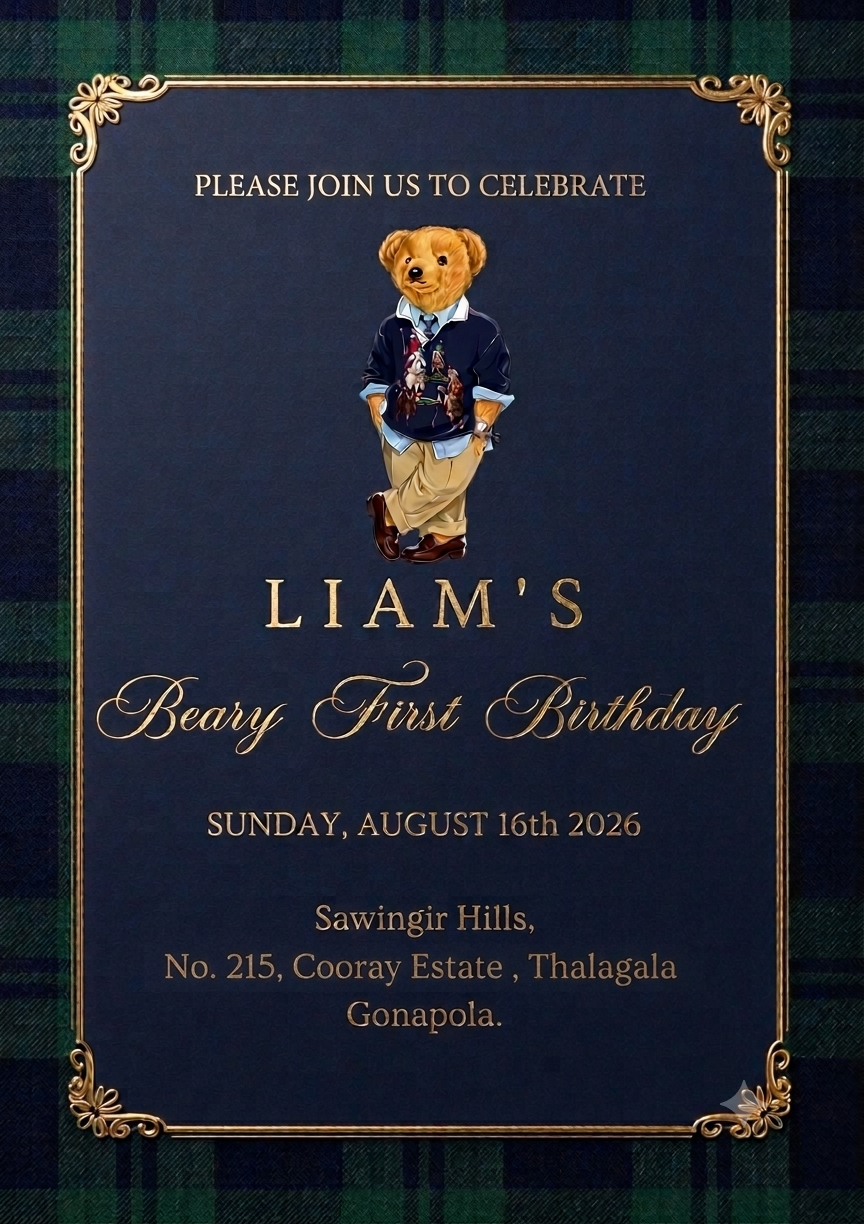
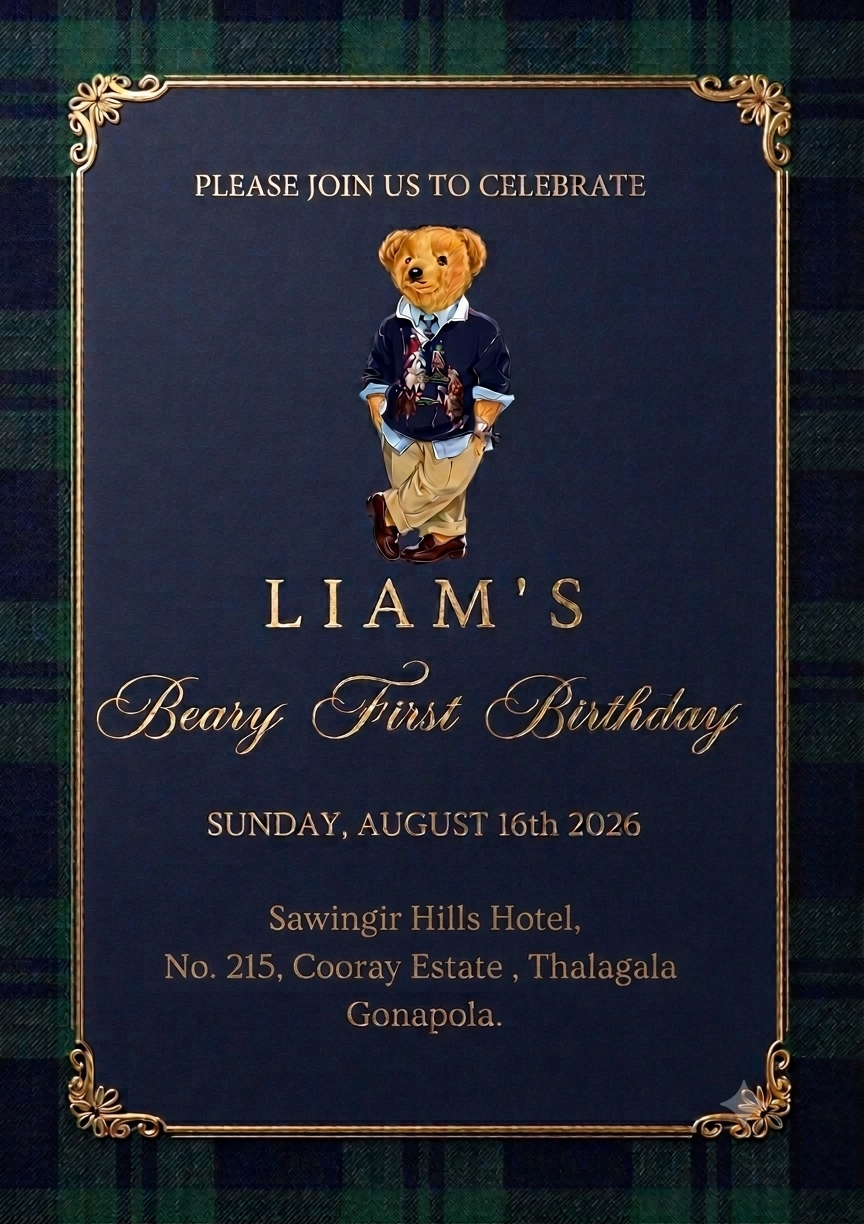
fix: update venue details and enhance milestone descriptions for clarity

Changed region(s): [[0.3125, 0.7141, 0.6562, 0.7761]]

diff --git a/app/page.tsx b/app/page.tsx
@@ -12,7 +12,7 @@ const baby = {
   date: "2026-08-16T11:00:00+05:30",
   displayDate: "Sunday, August 16th 2026",
   time: "7:00 PM onwards",
-  venue: "Sawingir  Hills",
+  venue: "Sawingir  Hills Hotel",
   address: "No.215, Cooray Estate, Thalagala , Gonapola",
   mapsQuery: "Sawingir Hills, No. 215, Cooray Waththa Thalagala, Gonapola"
 };
@@ -25,12 +25,12 @@ const timeline = [
   { time: "8:30 PM", title: "Celebration Time", detail: "Music, laughter, blessings, and birthday memories.", icon: Sparkles }
 ];
 const milestones = [
-  { date: "August 16, 2025", title: "Born", detail: "The day our sweetest little gentleman arrived and changed everything." },
-  { date: "October 2025", title: "First Smile", detail: "A tiny smile that made every quiet morning feel golden." },  
-  { date: "November 2025", title: "First Crawl", detail: "Small hands, brave moves, and the beginning of big adventures." },
-  { date: "May 20 2026", title: "First Word", detail: "One tiny sound that turned into a word — and suddenly the whole house was listening."},
-  { date: "June 2026", title: "First Steps", detail: "Careful steps forward, cheered on by everyone who loves him." },
-  { date: "August 16, 2026", title: "First Birthday", detail: "One beautiful year of cuddles, laughter, wonder, and love." }
+  { date: "16th August 2025", title: "First Cry", detail: "The day our sweetest little gentleman arrived and changed everything." },
+  { date: "22nd October 2025", title: "First Smile", detail: "A tiny smile that made every quiet morning feel golden." },  
+  { date: "3rd February 2026", title: "First Crawl", detail: "Small hands, brave moves, and the beginning of big adventures." },
+  { date: "20th May 2026", title: "First Word", detail: "One tiny sound that turned into a word — and suddenly the whole house was listening."},
+  { date: "23rd June 2026", title: "First Steps", detail: "Careful steps forward, cheered on by everyone who loves him." },
+  { date: "16th August 2026", title: "First Birthday", detail: "One beautiful year of cuddles, laughter, wonder, and love." }
 ];
 const contacts = [
   { name: "Nirmal", phone: "+94 74 381 6127", href: "tel:+94743816127" },
@@ -173,7 +173,7 @@ function Intro({ onDone }: { onDone: () => void }) {
         <motion.div initial={{ opacity: 0, scale: 0.8 }} animate={{ opacity: 1, scale: 1 }} transition={{ duration: 1.2 }} className="mx-auto mb-8 grid h-24 w-24 place-items-center rounded-full border border-[#C8A96B]/60 text-[#C8A96B] shadow-[0_0_60px_rgba(200,169,107,.28)]">
           <span className="font-display text-4xl">{baby.shortName}</span>
         </motion.div>
-        <motion.p initial={{ opacity: 0, y: 16 }} animate={{ opacity: 1, y: 0 }} transition={{ delay: 0.75 }} className="text-xs font-semibold uppercase tracking-[0.45em] text-[#C8A96B]">A first birthday celebration</motion.p>
+        <motion.p initial={{ opacity: 0, y: 16 }} animate={{ opacity: 1, y: 0 }} transition={{ delay: 0.75 }} className="text-xs font-semibold uppercase tracking-[0.45em] text-[#C8A96B]">The first birthday celebration</motion.p>
         <motion.h1 initial={{ opacity: 0, filter: "blur(12px)" }} animate={{ opacity: 1, filter: "blur(0px)" }} transition={{ delay: 1.25, duration: 1.3 }} className="font-display mt-5 text-5xl text-[#1E2A44] sm:text-7xl">{baby.name}</motion.h1>
         <motion.div initial={{ opacity: 0, y: 28 }} animate={{ opacity: 1, y: 0 }} transition={{ delay: 2.0, duration: 1 }} className="mx-auto mt-8 h-44 w-44 overflow-hidden rounded-full border border-[#C8A96B]/45 bg-white/60 shadow-2xl shadow-[#1E2A44]/15">
           <Image src="/images/bear.jpg" alt="Polo bear" width={320} height={320} priority className="h-full w-full object-contain" />
